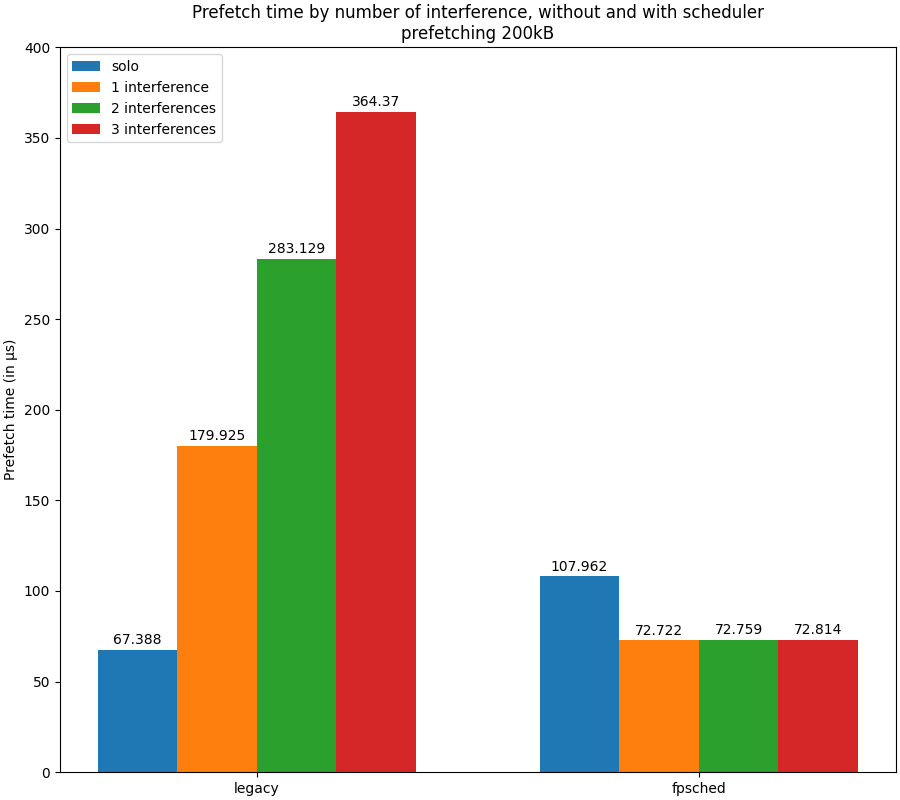
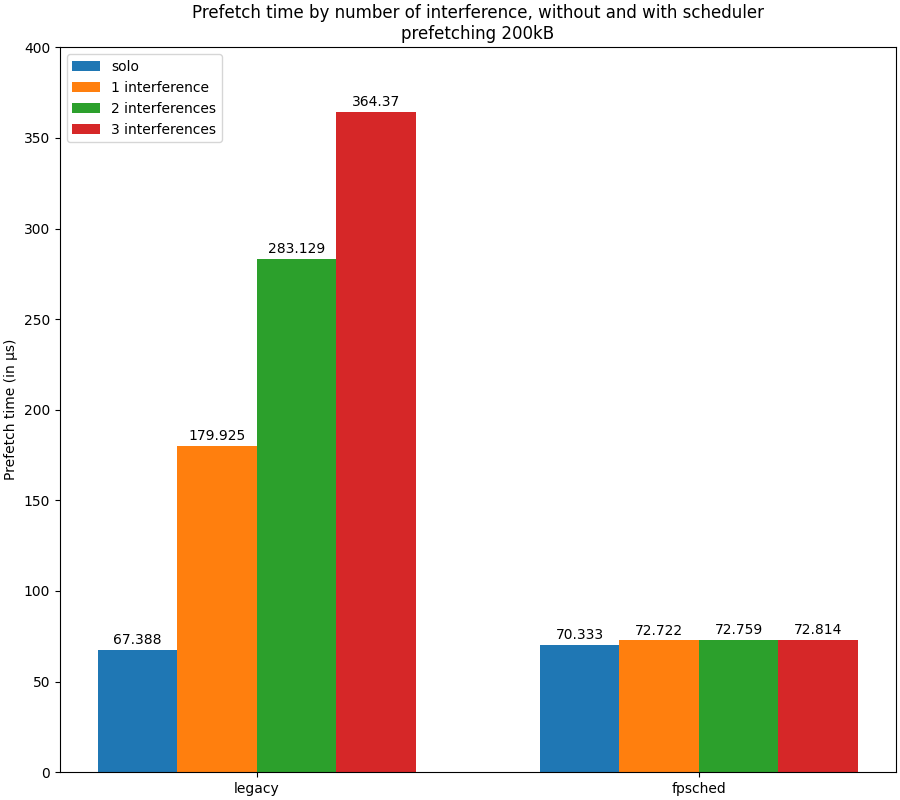
Added the good PREM log and fixed graphs

Changed region(s): [[0.5911, 0.6875, 0.7156, 0.8125]]

diff --git a/test-logs/analysis/analysis_solo_interferences.py b/test-logs/analysis/analysis_solo_interferences.py
@@ -69,6 +69,21 @@ def plot_interference_curves(title: str,
     plt.ylabel(ylabel='Prefetch time (in ns)')
     plt.legend()
 
+
+def plot_solo_curves(solo_legacy_max: dict[str, Any],
+                     solo_prem_max: dict[str, Any]):
+    # Generate y values from the max
+    x = [*range(1, len(solo_legacy_max) + 1)]
+    y_solo = [solo_legacy_max[max_varname_template.format(data_size=data_size)] for data_size in x]
+    y_solo_prem = [solo_prem_max[max_varname_template.format(data_size=data_size)] for data_size in x]
+    plt.title(label="Worst case execution time of the solo execution without interfering core with and without PREM (in nanoseconds)")
+    plt.plot(x, y_solo, label='Solo legacy')
+    plt.plot(x, y_solo_prem, label='Solo PREM')
+    plt.xlabel(xlabel='Prefetched data size (in kB)')
+    plt.ylabel(ylabel='Prefetch time (in ns)')
+    plt.legend()
+
+
 def main():
     # Setting path to root folder
     sys.path.append('../')
@@ -81,7 +96,7 @@ def main():
     interference3_legacy_max_varnames = get_variables_from_big_file('max_', '../extract/bench_interference3_legacy-execution-solo-24-07-23-1.py')
     
     # PREM
-    solo_prem_max_varnames = get_variables_from_big_file('max_', '../extract/bench_solo_legacy-execution-prem-solo-24-06-26-1.py')
+    solo_prem_max_varnames = get_variables_from_big_file('max_', '../extract/bench_solo_legacy-execution-prem-solo-24-07-24-1.py')
     interference1_prem_max_varnames = get_variables_from_big_file('max_', '../extract/bench_interference1_legacy-execution-prem-solo-24-07-16-1.py')
     interference2_prem_max_varnames = get_variables_from_big_file('max_', '../extract/bench_interference2_legacy-execution-prem-solo-24-07-17-1.py')
     interference3_prem_max_varnames = get_variables_from_big_file('max_', '../extract/bench_interference3_legacy-execution-prem-solo-24-07-18-1.py')
@@ -118,6 +133,11 @@ def main():
                              interference_legacy_curve=interference3_legacy_max_varnames,
                              interference_prem_curve=interference3_prem_max_varnames)
     plt.savefig('../graphs/comparison_prem_legacy_interference3.png')
+    
+    plt.figure('solos', figsize=(15, 10))
+    plot_solo_curves(solo_legacy_max=solo_legacy_max_varnames,
+                     solo_prem_max=solo_prem_max_varnames)
+    plt.savefig('../graphs/comparison_solo_legacy_prem.png')
 
 
 if __name__ == '__main__':
